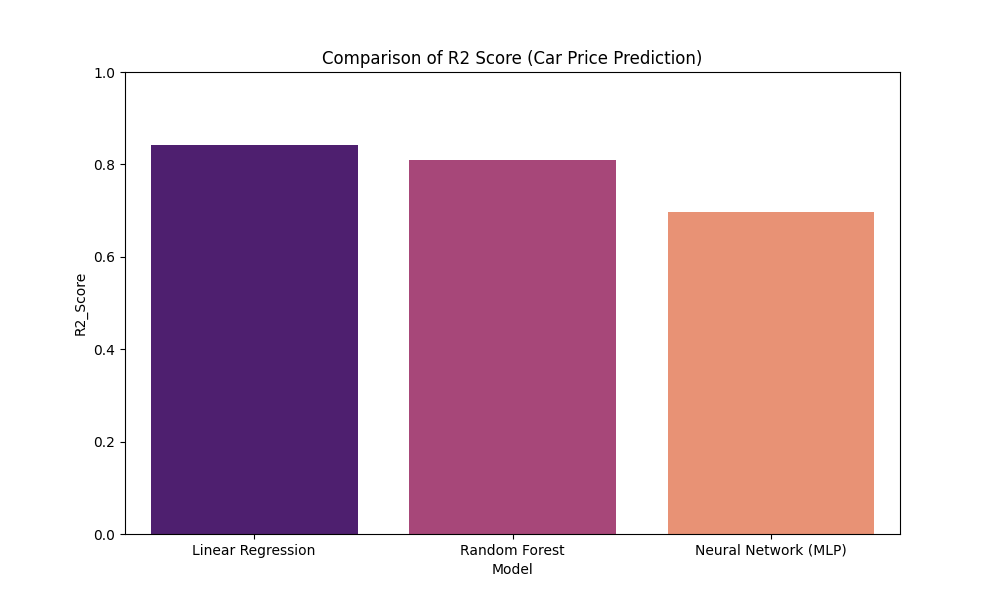
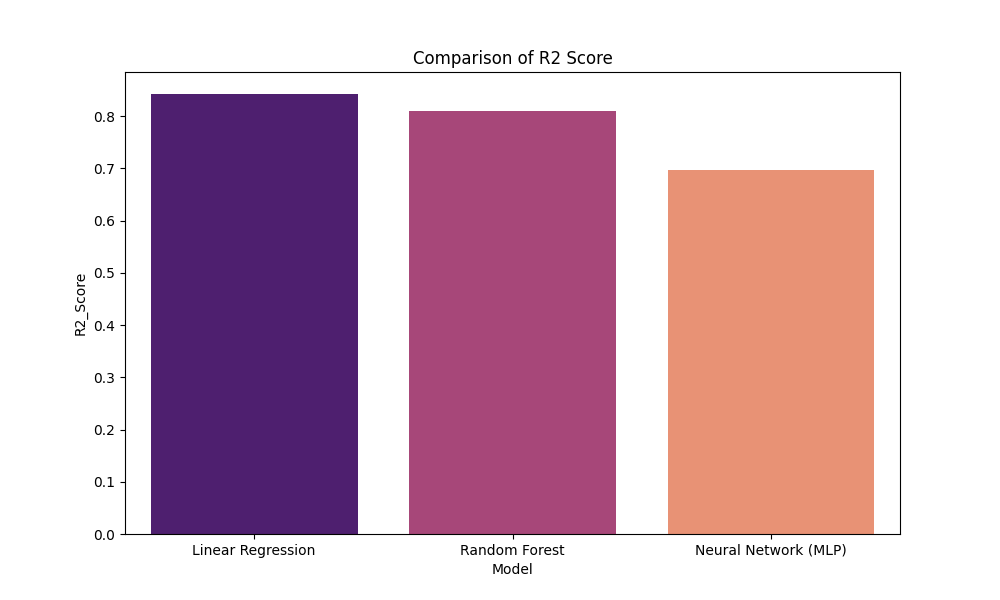
first new

diff --git a/car.py b/car.py
@@ -3,7 +3,7 @@ import numpy as np
 import matplotlib.pyplot as plt
 import seaborn as sns
 import warnings
-from sklearn.model_selection import train_test_split
+from sklearn.model_selection import train_test_split, cross_val_score
 from sklearn.preprocessing import StandardScaler, LabelEncoder
 from sklearn.linear_model import LinearRegression
 from sklearn.ensemble import RandomForestRegressor
@@ -14,30 +14,22 @@ warnings.filterwarnings('ignore')
 
 df = pd.read_csv('Car_Price_Prediction.csv')
 
-missing_count = df.isnull().sum().sum()
-if missing_count > 0:
-    df = df.dropna()
-
-anomalies = df[(df['Price'] <= 0) | (df['Mileage'] < 0) | (df['Engine Size'] <= 0)]
-if not anomalies.empty:
-    df = df[(df['Price'] > 0) & (df['Mileage'] >= 0) & (df['Engine Size'] > 0)]
+df = df.dropna()
+df = df[(df['Price'] > 0) & (df['Mileage'] >= 0) & (df['Engine Size'] > 0)]
 
 Q1 = df['Price'].quantile(0.25)
 Q3 = df['Price'].quantile(0.75)
 IQR = Q3 - Q1
-lower_bound = Q1 - 1.5 * IQR
-upper_bound = Q3 + 1.5 * IQR
-df = df[(df['Price'] >= lower_bound) & (df['Price'] <= upper_bound)]
+df = df[(df['Price'] >= Q1 - 1.5 * IQR) & (df['Price'] <= Q3 + 1.5 * IQR)]
 
 df['Car_Age'] = 2026 - df['Year']
 
 le = LabelEncoder()
-cat_cols = ['Make', 'Model', 'Fuel Type', 'Transmission']
-for col in cat_cols:
+for col in ['Make', 'Model', 'Fuel Type', 'Transmission']:
     df[col] = le.fit_transform(df[col])
 
 df_prepared = df.drop(columns=['Year'])
-df_prepared.to_csv('transformed_car_data.csv', index=False, encoding='utf-8-sig')
+df_prepared.to_csv('prepared_car_data.csv', index=False, encoding='utf-8-sig')
 
 X = df_prepared.drop(['Price'], axis=1)
 y = df_prepared['Price']
@@ -55,39 +47,57 @@ models = {
 }
 
 results = []
-
 for name, model in models.items():
     model.fit(X_train_scaled, y_train)
     y_pred = model.predict(X_test_scaled)
-    
-    r2 = r2_score(y_test, y_pred)
-    mse = mean_squared_error(y_test, y_pred)
-    mae = mean_absolute_error(y_test, y_pred)
-    rmse = np.sqrt(mse)
+    cv_scores = cross_val_score(model, X_train_scaled, y_train, cv=5, scoring='r2')
     
     results.append({
         "Model": name,
-        "R2_Score": round(r2, 4),
-        "RMSE": round(rmse, 2),
-        "MAE": round(mae, 2),
-        "MSE": round(mse, 2)
+        "R2_Score": round(r2_score(y_test, y_pred), 4),
+        "CV_R2_Mean": round(cv_scores.mean(), 4),
+        "RMSE": round(np.sqrt(mean_squared_error(y_test, y_pred)), 2),
+        "MAE": round(mean_absolute_error(y_test, y_pred), 2)
     })
 
 results_df = pd.DataFrame(results)
-results_df.to_csv('car_model_comparison.csv', index=False, encoding='utf-8-sig')
+results_df.to_csv('model_performance_results.csv', index=False, encoding='utf-8-sig')
+print(results_df.to_string(index=False))
+
+plt.figure(figsize=(10, 6))
+feat_importances = pd.Series(models["Random Forest"].feature_importances_, index=X.columns)
+feat_importances.nlargest(10).plot(kind='barh', color='teal')
+plt.title('Top Factors Affecting Price')
+plt.savefig('car_feature_importance.png')
+
+plt.figure(figsize=(8, 8))
+plt.scatter(y_test, models["Random Forest"].predict(X_test_scaled), alpha=0.5, color='orange')
+plt.plot([y_test.min(), y_test.max()], [y_test.min(), y_test.max()], 'k--', lw=2)
+plt.xlabel('Actual Price')
+plt.ylabel('Predicted Price')
+plt.title('Actual vs Predicted Prices')
+plt.savefig('car_actual_vs_predicted.png')
 
 plt.figure(figsize=(10, 6))
 sns.barplot(x='Model', y='R2_Score', data=results_df, palette='magma')
-plt.title('Comparison of R2 Score (Car Price Prediction)')
-plt.ylim(0, 1.0)
+plt.title('Comparison of R2 Score')
 plt.savefig('car_r2_comparison.png')
 
-fig, ax = plt.subplots(figsize=(10, 3))
+fig, ax = plt.subplots(figsize=(12, 4))
 ax.axis('off')
-table = ax.table(cellText=results_df.values, colLabels=results_df.columns, loc='center', cellLoc='center')
-table.auto_set_font_size(False)
-table.set_fontsize(12)
-table.scale(1.2, 2)
-plt.savefig('car_result_table.png', bbox_inches='tight', dpi=300)
+the_table = ax.table(cellText=results_df.values, colLabels=results_df.columns, loc='center', cellLoc='center')
+the_table.auto_set_font_size(False)
+the_table.set_fontsize(12)
+the_table.scale(1.2, 2.5)
 
-print(results_df.to_string(index=False))
+for (row, col), cell in the_table.get_celld().items():
+    if row == 0:
+        cell.set_text_props(weight='bold', color='white')
+        cell.set_facecolor('#2c3e50')
+    else:
+        cell.set_facecolor('#f2f2f2')
+
+plt.title('Final Model Performance Summary', fontsize=16, pad=20, weight='bold')
+plt.savefig('model_performance_table.png', bbox_inches='tight', dpi=300)
+
+print("\nAll files and visualizations have been generated successfully.")
